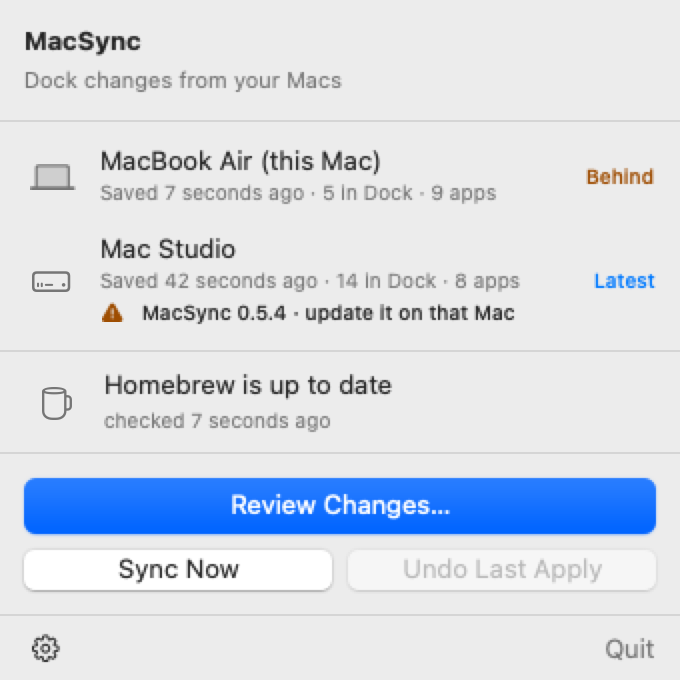
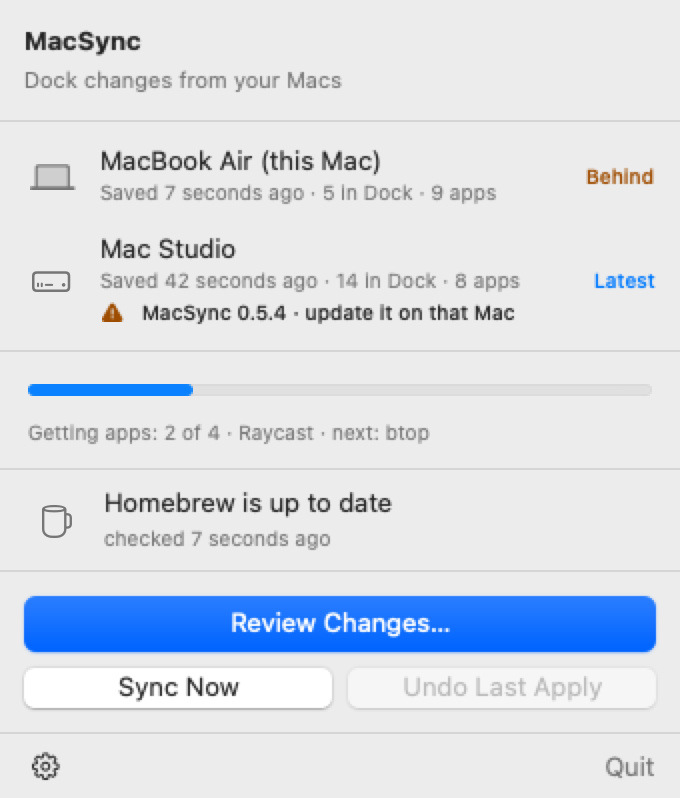
0.8.0: progress bar in the menu and on the active row; waiting rows fixed

diff --git a/Sources/MacSyncApp/ReviewView.swift b/Sources/MacSyncApp/ReviewView.swift
@@ -710,8 +710,13 @@ private struct ArtCraftPanel: View {
             }
             Spacer(minLength: 8)
             if model.craftBusy.contains(app.id) {
-                if model.isWaiting("craft", app.id) && model.isWaiting("craftRemove", app.id) {
+                if model.isWaiting("craft", app.id) || model.isWaiting("craftRemove", app.id) {
                     Label("Waiting", systemImage: "clock").font(.caption).foregroundStyle(.secondary)
+                } else if let percent = model.craftPercent, model.work["craftRemove"] == nil {
+                    VStack(alignment: .trailing, spacing: 3) {
+                        ProgressView(value: Double(percent), total: 100).progressViewStyle(.linear).frame(width: 120)
+                        Text("Downloading \(percent)%").font(.caption.monospacedDigit()).foregroundStyle(.secondary)
+                    }
                 } else {
                     HStack(spacing: 6) {
                         ProgressView().controlSize(.small)
@@ -1276,9 +1281,10 @@ private struct AppRow: View {
         if model.getting.contains(token) && model.isWaiting("get", token) {
             Label("Waiting", systemImage: "clock").font(.caption).foregroundStyle(.secondary)
         } else if model.getting.contains(token) {
-            HStack(spacing: 6) {
-                ProgressView().controlSize(.small)
-                Text(missing.app.source == .direct ? "Downloading" : "Installing").font(.caption).foregroundStyle(.secondary)
+            VStack(alignment: .trailing, spacing: 3) {
+                ProgressView().progressViewStyle(.linear).frame(width: 120)
+                Text(missing.app.source == .direct ? "Downloading" : missing.app.source == .appStore ? "Opening the App Store" : "Installing with Homebrew")
+                    .font(.caption).foregroundStyle(.secondary)
             }
         } else if let result {
             switch result.outcome {
@@ -1498,7 +1504,7 @@ private struct SettingsPanel: View {
 /// Test builds only: one section of the sync window on its own, for the website's pictures.
 extension ReviewView {
     static let probeSections = ["dock", "notInstalled", "artcraft", "apps", "appStore", "tools", "toRemove", "settings", "history",
-                                "config", "ai", "signin", "updates", "share"]
+                                "config", "ai", "signin", "updates", "share", "artcraftBusy"]
 
     @MainActor static func probeSection(_ key: String, model: AppModel) -> AnyView? {
         let o = model.overview
@@ -1511,6 +1517,13 @@ extension ReviewView {
             guard let plan = o?.dockPlan ?? o?.dockPreview, !plan.missing.isEmpty else { return nil }
             panel = AnyView(NotInstalledPanel(items: plan.missing, model: model))
         case "artcraft": panel = AnyView(ArtCraftPanel(model: model))
+        case "artcraftBusy":
+            let names = Array(model.craftApps.prefix(4))
+            model.craftBusy = Set(names.dropFirst().map(\.id))
+            model.work["craft"] = WorkProgress(verb: "Installing ArtCraft apps", names: names.dropFirst().map(\.name), done: 0,
+                                               current: names.dropFirst().first?.name, status: "Downloading \(names.dropFirst().first?.name ?? "")… 42%")
+            model.workCurrent["craft"] = names.dropFirst().first?.id
+            panel = AnyView(ArtCraftPanel(model: model))
         case "apps": panel = AnyView(AppsPanel(kind: .apps, model: model))
         case "appStore": panel = AnyView(AppsPanel(kind: .appStore, model: model))
         case "tools": panel = AnyView(AppsPanel(kind: .tools, model: model))

diff --git a/Sources/MacSyncApp/MenuView.swift b/Sources/MacSyncApp/MenuView.swift
@@ -16,6 +16,14 @@ struct MenuView: View {
                 .padding(.horizontal, 6)
                 Divider()
             }
+            if let job = model.activeWork {
+                VStack(alignment: .leading, spacing: 5) {
+                    ProgressView(value: Double(min(job.done, job.total)), total: Double(max(job.total, 1))).progressViewStyle(.linear)
+                    Text(job.line).font(.caption).foregroundStyle(.secondary).lineLimit(2)
+                }
+                .padding(.horizontal, 14).padding(.vertical, 10)
+                Divider()
+            }
             HomebrewRow(model: model)
             notices
             actions

diff --git a/Sources/MacSyncApp/AppModel+Extras.swift b/Sources/MacSyncApp/AppModel+Extras.swift
@@ -260,6 +260,13 @@ extension AppModel {
         return nil
     }
 
+    /// The current ArtCraft download's percentage, while it's downloading.
+    var craftPercent: Int? {
+        guard let status = work["craft"]?.status, status.hasPrefix("Downloading"),
+              let range = status.range(of: "\\d+(?=%)", options: .regularExpression) else { return nil }
+        return Int(status[range])
+    }
+
     /// Whether this row's item is queued but not started yet.
     func isWaiting(_ job: String, _ id: String) -> Bool { work[job] != nil && workCurrent[job] != id }
 }

diff --git a/CHANGELOG.md b/CHANGELOG.md
@@ -4,6 +4,7 @@
 - **Share My Setup:** the Share button in the sync window (or the settings menu) makes a .macsync file for a friend. Switch on the sections to give: apps, App Store apps, command-line tools and taps, extensions and plugins, settings, config files, AI setup, login items. Save it, or send it with AirDrop, Messages or Mail.
 - Your friend double-clicks the file (or uses Open a Shared Setup…): everything in it shows up as "Your name's setup", with the usual preview and a switch on each item. Apps download from where they're published. A Shared with you section lists it, with Remove.
 - **You can see it working:** installs, removals, ArtCraft and Homebrew updates show a progress bar with how many are done, what's happening now and what's next. Rows waiting their turn say Waiting; the one in progress says what it's doing. "Nothing to apply" no longer shows while something is running.
+- The menu shows the same progress bar and what's next while MacSync works. The row being downloaded has its own bar.
 - ArtCraft downloads show their percentage, then Installing. An icon that couldn't be fetched is tried again instead of staying blank.
 - `macsync upgrade` updates everything from Terminal, and Raycast has Check Homebrew Updates, Update Homebrew Apps and Share My Setup. `macsync://share` opens the share sheet.
 - ArtCraft apps whose icons haven't arrived yet show their first letter on blue instead of a grey square.
